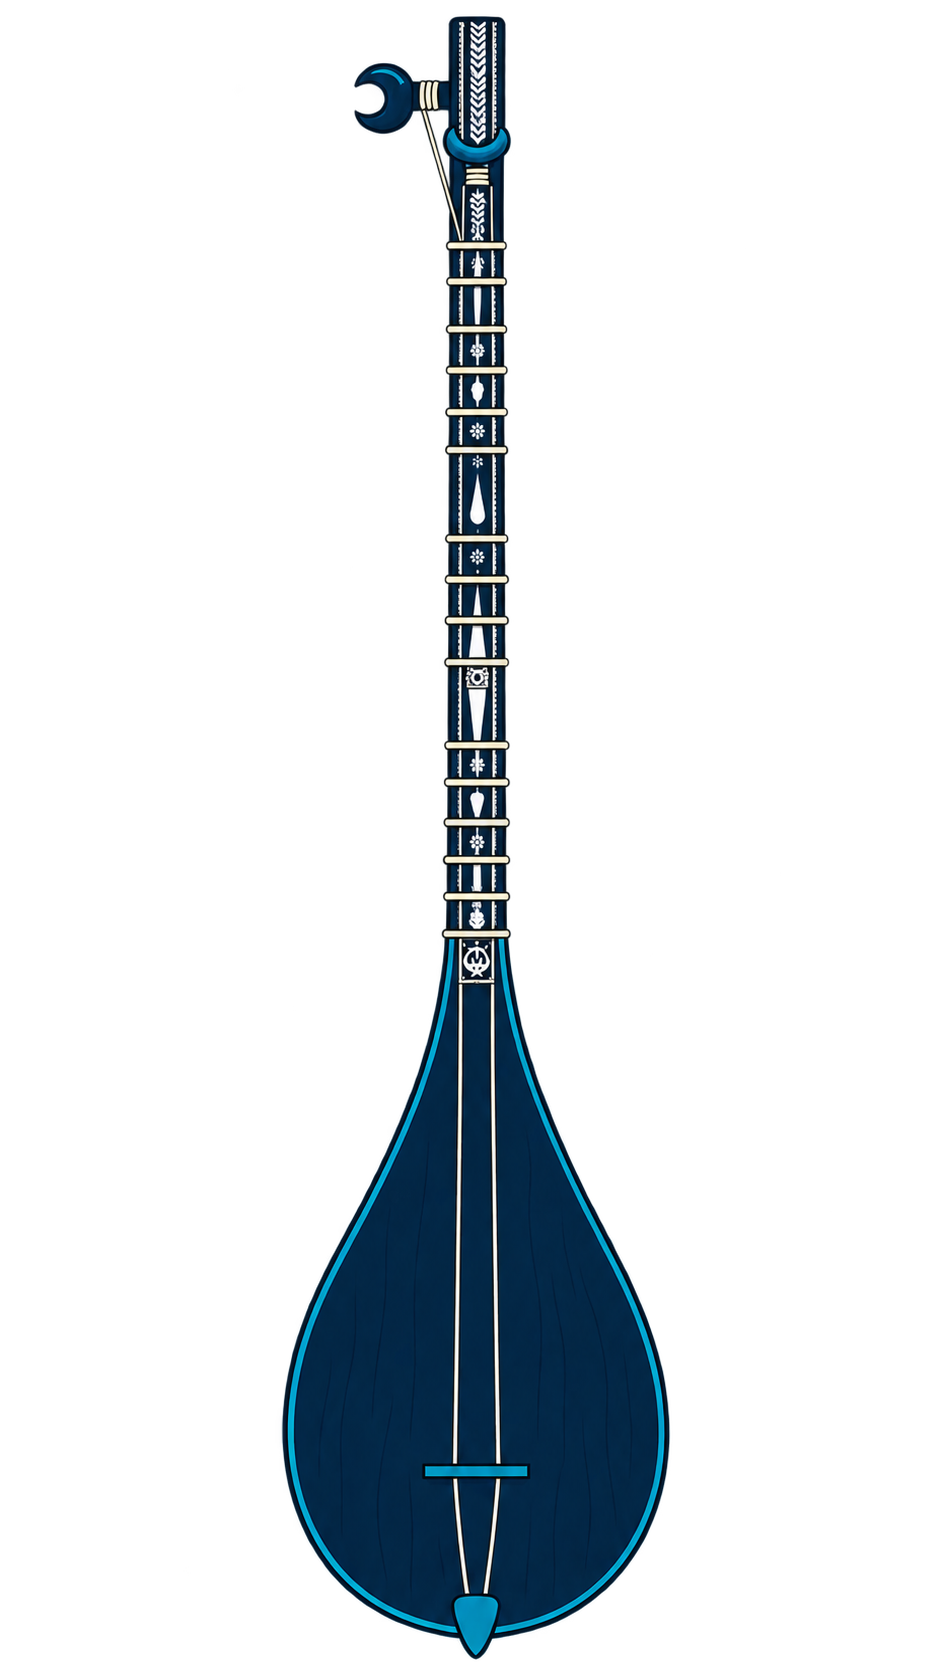
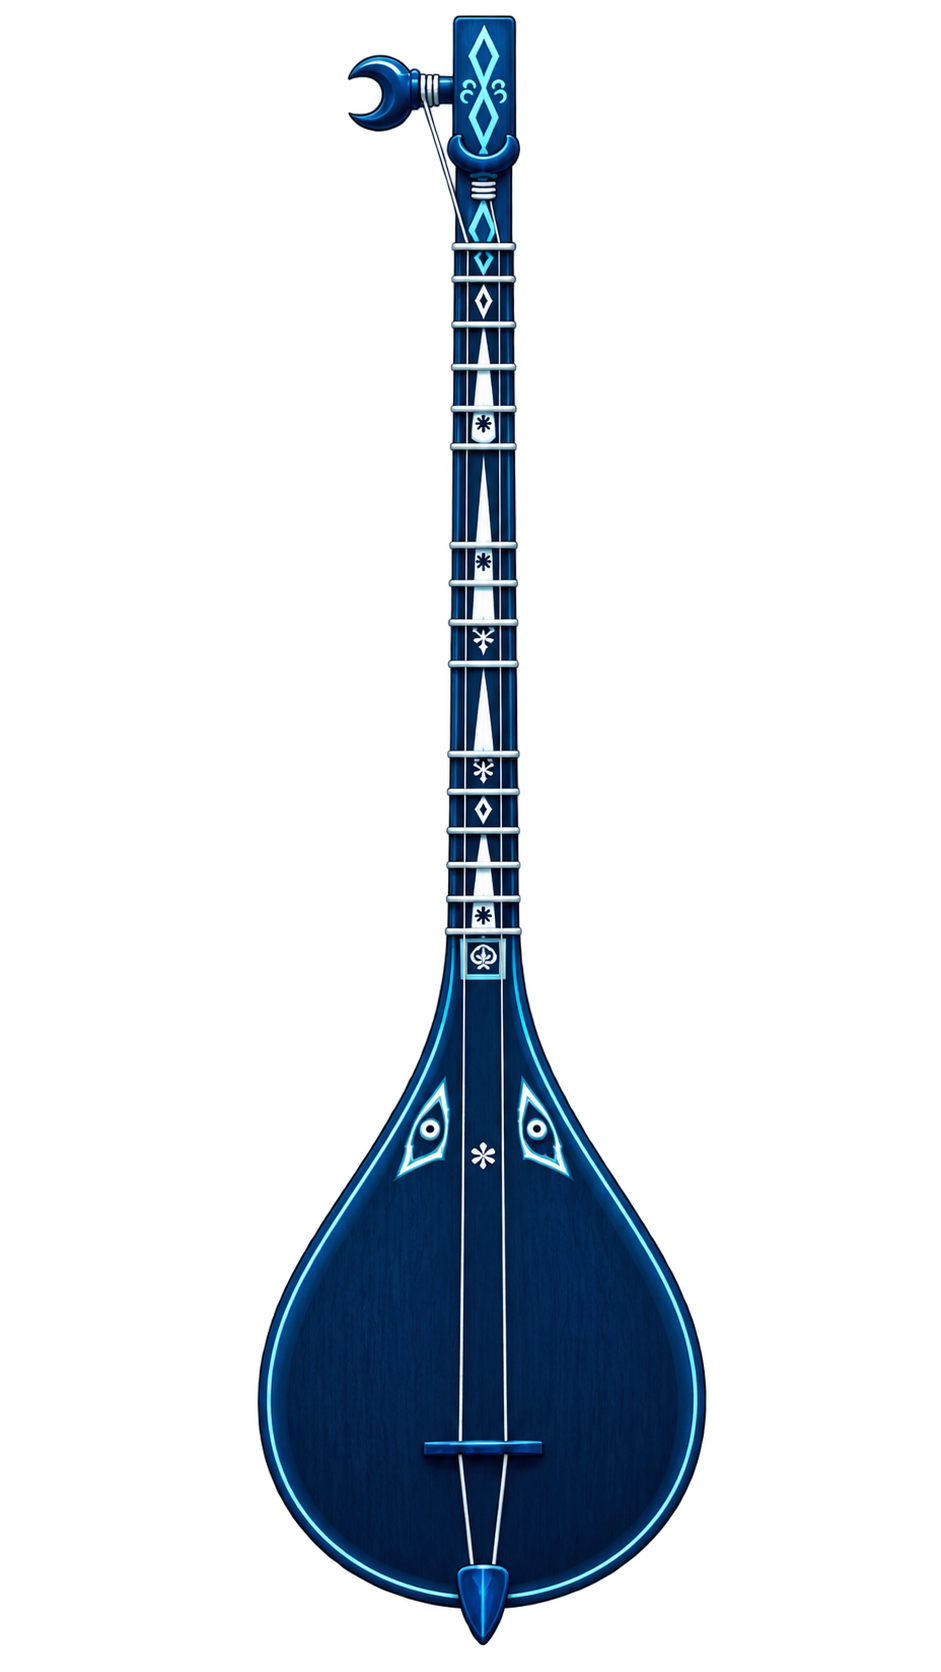
Restore original dutar artwork and document version 2 changes

Changed region(s): [[0.2774, 0.0, 0.7705, 0.9952]]

diff --git a/www/index.html b/www/index.html
@@ -79,8 +79,8 @@
           <img src="dutar-head.png" alt="Duttar burguluk ve sapı" width="1254" height="1254">
           <svg class="string-light-overlay" viewBox="0 0 1254 1254" aria-hidden="true">
 <defs><filter id="string-soft-glow" x="-60%" y="-30%" width="220%" height="160%" color-interpolation-filters="sRGB"><feGaussianBlur stdDeviation="8"/></filter></defs>
-<g class="string-light light-0"><g class="string-radiance"><path class="string-glow" d="M685 840 Q728 852 772 840 M685 867 Q728 879 772 867 M685 894 Q728 906 772 894 M761 916 C770 970 791 1030 796 1085 M796 1148 V1238"/><path class="string-aura" d="M685 840 Q728 852 772 840 M685 867 Q728 879 772 867 M685 894 Q728 906 772 894 M761 916 C770 970 791 1030 796 1085 M796 1148 V1238"/></g><path class="string-glint" d="M685 840 Q728 852 772 840 M685 867 Q728 879 772 867 M685 894 Q728 906 772 894 M761 916 C770 970 791 1030 796 1085 M796 1148 V1238"/></g>
-<g class="string-light light-1"><g class="string-radiance"><path class="string-glow" d="M490 282 Q480 318 488 360 M516 282 Q506 318 514 360 M542 282 Q532 318 540 360 M496 374 L653 1000 Q663 1045 664 1085 M663 1148 V1238"/><path class="string-aura" d="M490 282 Q480 318 488 360 M516 282 Q506 318 514 360 M542 282 Q532 318 540 360 M496 374 L653 1000 Q663 1045 664 1085 M663 1148 V1238"/></g><path class="string-glint" d="M490 282 Q480 318 488 360 M516 282 Q506 318 514 360 M542 282 Q532 318 540 360 M496 374 L653 1000 Q663 1045 664 1085 M663 1148 V1238"/></g>
+<g class="string-light light-0"><g class="string-radiance"><path class="string-glow" d="M653 828 Q692 838 731 829 M653 854 Q691 864 731 855 M653 880 Q692 890 731 881 M729 896 C740 946 757 1013 758 1056 L758 1081 M758 1129 V1211"/><path class="string-aura" d="M653 828 Q692 838 731 829 M653 854 Q691 864 731 855 M653 880 Q692 890 731 881 M729 896 C740 946 757 1013 758 1056 L758 1081 M758 1129 V1211"/></g><path class="string-glint" d="M653 828 Q692 838 731 829 M653 854 Q691 864 731 855 M653 880 Q692 890 731 881 M729 896 C740 946 757 1013 758 1056 L758 1081 M758 1129 V1211"/></g>
+<g class="string-light light-1"><g class="string-radiance"><path class="string-glow" d="M456 285 Q446 318 451 348 M479 285 Q469 318 475 348 M503 285 Q494 318 501 348 M456 362 L617 1026 Q625 1051 625 1081 M625 1129 V1211"/><path class="string-aura" d="M456 285 Q446 318 451 348 M479 285 Q469 318 475 348 M503 285 Q494 318 501 348 M456 362 L617 1026 Q625 1051 625 1081 M625 1129 V1211"/></g><path class="string-glint" d="M456 285 Q446 318 451 348 M479 285 Q469 318 475 348 M503 285 Q494 318 501 348 M456 362 L617 1026 Q625 1051 625 1081 M625 1129 V1211"/></g>
 </svg>
         </div>
       </div>

diff --git a/www/tuner-visuals.css b/www/tuner-visuals.css
@@ -14,7 +14,7 @@
 :root[data-theme=dark] .string-glow{stroke:#83f4d5;stroke-opacity:.7}
 :root[data-theme=dark] .string-glint{stroke:#f0fff9}
 #tunerPanel .tuner-artwork img{z-index:1}
-#tunerPanel .string-light-overlay{z-index:5;transform:none}
+#tunerPanel .string-light-overlay{z-index:5;transform:translate(2px,2px)}
 /* Fixed target remains distinguishable from the moving needle. */
 .zero-target{pointer-events:none;fill:none;stroke-linecap:round}.zero-target-outline{stroke:var(--card);stroke-width:5}.zero-target-line{stroke:var(--navy);stroke-width:2}.zero-confirm{stroke:var(--good);stroke-width:3;opacity:0;transform-box:fill-box;transform-origin:center}
 #tunerPanel .accuracy-marks{display:none}

diff --git a/RELEASE-V2-TR.md b/RELEASE-V2-TR.md
@@ -1,0 +1,90 @@
+# Duttarim — ikinci sürüm çalışmaları
+
+5 Kasım 2026. Bu döküm mevcut kaynaklar, Git geçmişi ve çalışma kayıtlarından hazırlanmıştır. “Sürüm 2” burada ikinci geliştirme paketini anlatır; mağaza sürüm adı Android ve iOS projelerinde hâlâ **1.1**, Android versionCode **8** olarak kayıtlıdır. Bu işlem sürüm numarasını değiştirmez veya mağazaya yayın yapmaz.
+
+## Bu hazırlıkta geri alınan görseller
+
+- Akort ekranındaki `www/dutar-head.png` ve perdeler ekranındaki `www/TamDuttar.png`, desen değiştirme çalışmalarından önceki orijinal dosyalara döndürüldü.
+- Android kaynağı: `474142a`; iOS kaynağı: `d68fe6a`. İki depodaki özgün dosyaların Git içerik kimlikleri aynı.
+- Tel parlamasının SVG yolları ve 2 px konum düzeltmesi eski baş görseline yeniden hizalandı. Parlama animasyonu korunuyor.
+- Son üretilen nakışlı/yeniden oranlanmış dutar denemeleri uygulamaya eklenmedi.
+- Splash, uygulama ikonu ve etles arka planları bu geri almanın kapsamı dışında; mevcut sürümdeki hâlleri korunuyor.
+
+## Akort ekranı
+
+- Düzen adları Türkçe Küçük düzen / Büyük düzen, İngilizce Small Tuning / Big Tuning ve Uygurca karşılıklarıyla güncellendi.
+- Akort seçenekleri, mikrofon düğmesi, orta kart ve görsel arasındaki genişlik, yükseklik ve boşluklar telefon/tablet düzenine göre ayarlandı.
+- Nota ve Hazır yazılarının konumu, mikrofon düğmesinin alt gezinmeye uzaklığı ve küçük ekran yerleşimi düzeltildi.
+- Pes / doğru / tiz renklerinin anlamı korunarak koyu tema tonları düzenlendi; merkez hedef işareti belirginleştirildi.
+- Seçilen tel ve burma sarımları üzerinde nefes alan parlama animasyonu eklendi.
+- Baş görselinin arkasındaki koyu tema ışığı azaltıldı ve konumu ayarlandı.
+- Akort onay kartları açık/koyu temaya uygun renklere bağlandı; koyu temada beyaza dönme sorunu giderildi.
+- Akort tamamlanınca çizilerek çıkan sivri onay işareti ve ses geri bildirimi eklendi; animasyon hızlandırıldı ve ses seviyesi artırıldı.
+- Tel kartlarındaki gereksiz yuvarlak/tik alanı kaldırıldı. Dinle yazısı hoparlör simgesine dönüştürüldü; erişilebilir düğme adı korundu.
+- iOS referans sesi, kayıt başlamadan veya durduktan sonra da çalışacak ses oturumu düzenlemesini içeriyor.
+
+## Eserler ve kütüphane
+
+- Eser bilgisine kaynak, Başlangıç / Orta / İleri seviyesi ve Küçük / Büyük düzen bilgisi eklendi.
+- Bu alanlar Türkçe, İngilizce ve Uygurca arayüz diline göre gösteriliyor.
+- Parçalar ve Alıştırmalar için seviye sıralaması ve seviye filtreleri eklendi; filtre düğmeleri genişletildi.
+- Favoriler bölümüne kalp simgesi ve kartlara dolu/boş favori durumu eklendi.
+- Eser simgeleri klasik nota görünümünde tutuldu; seviyeye göre yeşil, amber/turuncu ve mor renkler kullanılıyor.
+- Boş sonuç ekranları ve “Parçaları keşfet” eylemi eklendi; bu eylem Tümü bölümünü açıyor.
+- Karıştır düğmesi, Keşfet sayacı ve Kolaydan zora başlık/sayaçları kaldırıldı.
+- Bilgi belirtilmeyen seviyenin kullanıcıya görünen metni Tümü / All ve Uygurca karşılığına çevrildi.
+- Kütüphane kartları daha kompakt hâle getirildi; yazı boyutları ve okunabilirlik ayarlandı.
+- İlk kurulumda başlangıç kataloğunun “20 nota eklendi” benzeri bir güncelleme bildirimi oluşturması kaldırıldı.
+
+## Bir eserin farklı çalınımları
+
+- Aynı eserin birden fazla seviyedeki notası tek katmanlı kart altında gruplanabiliyor; üç veya beş kayıtla sınırlı değil.
+- Grup kartına dokununca alt versiyonlar animasyonla açılıyor; nota ekranından dönünce açılmış grup korunuyor.
+- Sayısal seviye rozeti kalbin yanında TR `1.sv`, EN `1.lvl` ve Uygurca karşılığıyla gösteriliyor.
+- Seviyeler yeşil tonları, amber/turuncu ve 5+ için mor renk ailesiyle ayrılıyor; numaralar da gösteriliyor.
+- Versiyonlu eserler Tümü içinde bulunuyor; normal Başlangıç / Orta / İleri gruplarına karışmıyor. Ayrı Versiyonlar sekmesi kaldırıldı.
+- Her çalınımın nota sayfaları, temposu, düzeni ve favori durumu bağımsız tutuluyor.
+
+## Nota yönetimi ve görüntüleyici
+
+- Uygulama içindeki editöre ve yerel yönetim paneline Türkçe seviye/düzen seçenekleri eklendi.
+- Versiyon grubu, grup adı, versiyon seviyesi ve Versiyon ekle işlemi eklendi.
+- Tekrarlanan grup/seviye, geçersiz değerler ve eksik alanlar için doğrulama eklendi. Mevcut dosyaları tekrar yüklemeden metadata düzenleme destekleniyor.
+- Normal/sadeleştirilmiş görünüm, sayfa geçişi ve yakınlaştırma kontrol kartları kompaktlaştırıldı; simge ve yüzde yazısı boyutları ayarlandı.
+- Tam ekran düğmesi, açıkken tam ekrandan çıkış simgesine ve uygun erişilebilir etikete dönüşüyor.
+
+## Tema, ayarlar ve genel kullanım
+
+- Sistem / Açık / Koyu tema seçimi, tercih saklama ve sistem tema değişimini izleme eklendi; iOS yerel görünüm eşlemesi düzeltildi.
+- Koyu moda uygun etles arka planı eklendi; iki temadaki desen görünürlüğü ayarlandı.
+- Ayar düğmeleri kompaktlaştırıldı, seçili yeşil dolgular hafifletildi; ayar/kütüphane/nota yazı boyutları gözden geçirildi.
+- About bölümünün font hiyerarşisi, Duttarim başlığının boyutu, Privacy Policy ve Feedback yazıları ve alt çizgi aralıkları düzenlendi.
+- Dokunma/basılma görsel geri bildirimi ve desteklenen cihazlarda isteğe bağlı hafif titreşim eklendi.
+- Hareket azaltma tercihi ve klavye odak işaretleri destekleniyor.
+- Arayüz yazılarının seçilmesi ve çift dokunmayla tarayıcı yakınlaştırması engellendi; editör giriş alanları yazı düzenlemek için istisna tutuldu.
+
+## Telefon/tablet düzeni ve perdeler
+
+- Telefon ve tablet genişlikleri için responsive yerleşim, kartlar ve yazı boyutları düzenlendi.
+- Alt gezinme ile içerik arasındaki gereksiz boşluk giderildi; devamında son içeriğin çubuğun altında kalmasını önlemek için güvenli alan ve kaydırma hesabı düzeltildi.
+- Ayarların sonundaki Privacy Policy / Feedback bağlantılarına erişim ve perdeler sayfasının alt alanı için düzenlemeler yapıldı.
+- Perdelerde nota kartları büyütüldü; nota bağlantı çizgileri dutar görselinin arkasına alındı.
+- Genel kullanım dikey; tam ekran nota görünümünde yatay kullanım istisnası bulunuyor. Büyük ekranlarda platformun yön politikası ayrıca cihazda kontrol edilmelidir.
+
+## Android / iOS ve dağıtım altyapısı
+
+- Android geliştirme temeli temizlendi; Android Studio derlemesi web dosyalarını otomatik kopyalayacak şekilde bağlandı. Eklenti/yapılandırma değişikliklerinde Capacitor sync yine gerekir.
+- Android sürüm adı 1.1 ve versionCode 8 hazırlığı yapıldı.
+- Güncel uygulama iOS deposuna taşındı; yerel ses/mikrofon köprüsü ve mikrofon açıklaması eklendi/düzeltildi.
+- iOS ilk açılışında yerel mikrofon iznini dil seçiminden önce isteme, izin durumunu kontrol etme ve bekleyen izni tekrar değerlendirme akışı eklendi.
+- Mikrofon izin yöntemlerinin Capacitor'a aktarılmaması düzeltildi; uygulama ayarlarını açma desteği bulunuyor.
+- Codemagic üzerinde macOS derlemesi, imzalama, benzersiz build numarası ve IPA üretimi için iş akışı hazırlandı. Mevcut YAML'da otomatik TestFlight ve App Store gönderimi kapalıdır.
+- Açık/koyu splash görselleri ve ikon kaynakları hazırlandı. Sonradan tarif edilen alttan yükselip zıplayan/fade olan yeni splash animasyonu uygulanmadı.
+
+## Doğrulama ve kapsam sınırları
+
+- Önceki çalışmalarda katalog, versiyon modeli, arayüz, dil, tema ve farklı ekran boyutu kontrolleri yapıldı; ayrıntılı test dosyaları ilgili depoların tools klasöründedir.
+- 19 Ekim'de Android emülatöründe FPS/rAF, geciken kare ve bellek incelemesi yapıldı. Bu bir ölçüm çalışmasıydı; performans artışı sağlandığı veya güncel release sürümünün aynı sonuçları vereceği iddia edilmiyor.
+- Uygurca metinler eklendi; adı geçen “ewlat” kaynağına göre doğrulama tamamlanmış sayılmaz.
+- Worker tarafında yeni grup doğrulaması kaynakta var; önceki çalışma kayıtlarında canlı Worker deploy'u yapılmadığı belirtiliyor.
+- Bu commit mağaza yayını, yeni AAB/IPA üretimi veya gerçek cihazdaki mikrofon/akort doğruluğu testi değildir.

diff --git a/artwork/README.md b/artwork/README.md
@@ -1,5 +1,7 @@
 # Duttarim artwork update
 
+> 2026-11-05: The runtime head and full dutar (`www/dutar-head.png`, `www/TamDuttar.png`) were restored to the original artwork from `d68fe6a`. The prompts below document earlier experiments, not the currently shipped instrument illustrations. Splash and app-icon assets are unchanged by this restoration. See `../RELEASE-V2-TR.md`.
+
 Generated with the built-in image_gen tool from the user's real dutar photograph and existing transparent illustrations. Original canvas dimensions retained: head 1254×1254, full dutar 941×1672. No proportional stretching was applied, to preserve the fret map and string-overlay calibration. Native icon sizes are exported by tools/export-app-icons.cjs.
 
 Assets: `www/dutar-head.png`, `www/TamDuttar.png`, `artwork/app-icon.png`.
